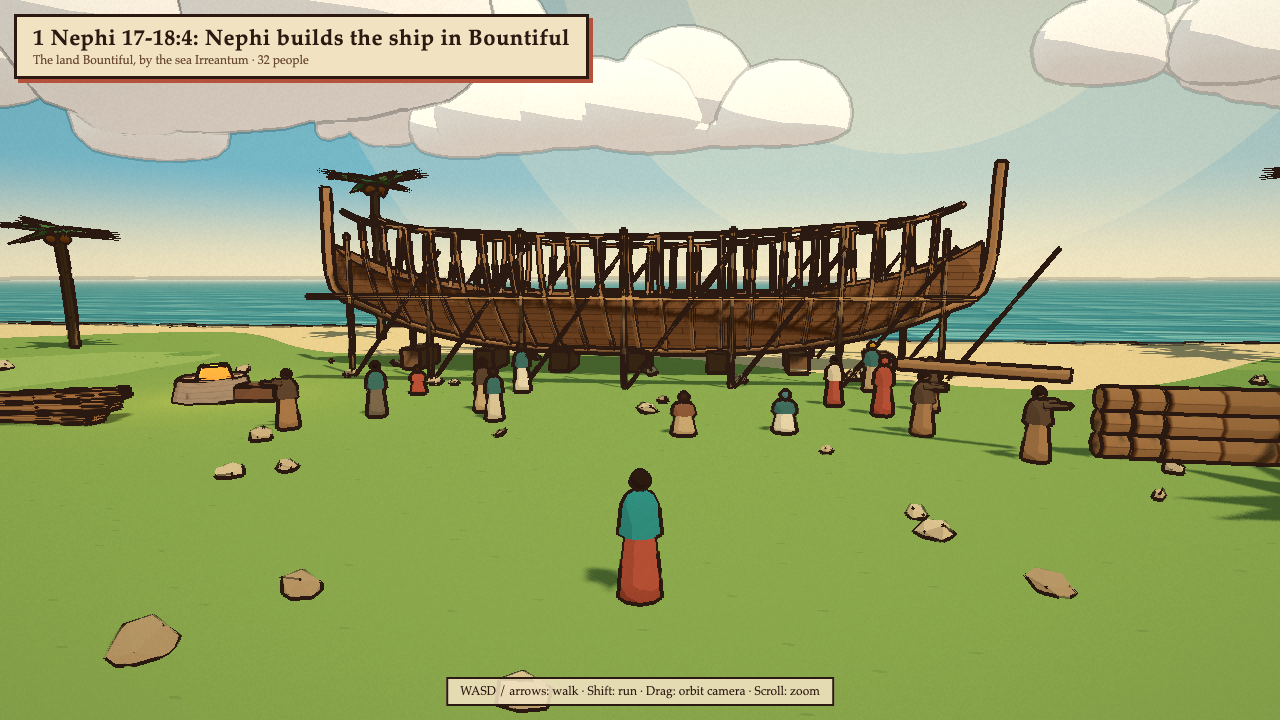
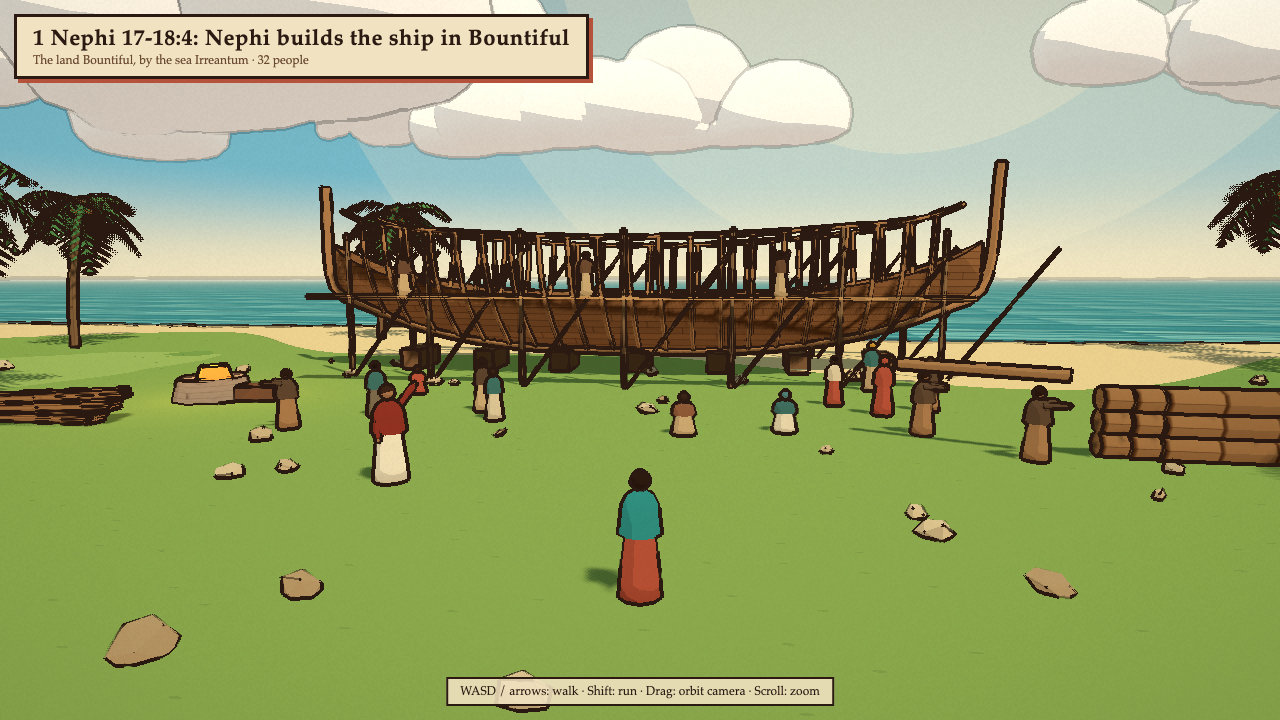
feat: polish toon scenes bom-07 to bom-12

diff --git a/styles/toon/scenes/bom-08.js b/styles/toon/scenes/bom-08.js
@@ -54,24 +54,25 @@ export default {
 
     // Cords around Nephi and the mast (1 Nephi 18:11-15).
     const cords = [];
-    for (const h of [0.55, 0.85, 1.15, 1.3]) {
-      const ring = new THREE.TorusGeometry(0.42, 0.04, 5, 18);
+    for (const h of [0.5, 0.8, 1.1, 1.38]) {
+      const ring = new THREE.TorusGeometry(0.5, 0.05, 5, 20);
       ring.rotateX(Math.PI / 2);
-      ring.translate((MAST[0] + NEPHI[0]) / 2 + 0.05, deckY + h, 0);
+      ring.scale(1.3, 1, 0.62);
+      ring.translate((MAST[0] + NEPHI[0]) / 2 + 0.06, deckY + h, 0);
       cords.push(ring);
     }
-    addMesh(scene, cords, kit.toon('#d8c8a0'), { cast: false });
+    addMesh(scene, cords, kit.toon('#f0e2b8', { emissive: '#3a3020' }), { cast: false });
     cargo(ctx, [[-4, 2.3], [-4.6, 2.0], [-3.8, -2.4], [8, 2.2], [8.6, -2.1], [7.6, 1.9]], { y: deckY });
 
     const fam = { robe: '#7a6a52', mantle: '#5e4632', skin: '#a87650', hair: '#2b1a12', sash: '#3e6e66' };
-    person(ctx, { robe: '#e6d8b8', mantle: '#3e6e66', skin: '#a87650', hair: '#3a2418', sash: '#c8912e', arms: [0.12, -0.3] }, { pos: NEPHI, face: [-10, 0], y: deckY, scale: 1.05, kneel: true });
+    person(ctx, { robe: '#e6d8b8', mantle: '#3e6e66', skin: '#a87650', hair: '#3a2418', sash: '#c8912e', arms: [0.06, 0] }, { pos: NEPHI, face: [12, -2], y: deckY, scale: 1.1 });
     person(ctx, { ...fam, robe: '#8c5a3c', mantle: '#3a2418', arms: [0.25, 0.9] }, { pos: [-0.5, 1.4], face: NEPHI, y: deckY });
     person(ctx, { ...fam, robe: '#6b5a4a', mantle: '#8c5a3c', arms: [0.6, 0.4] }, { pos: [0.2, -1.8], face: NEPHI, y: deckY });
     person(ctx, { robe: '#e6d8b8', mantle: '#d9c7a3', skin: '#c08f66', hair: '#e8e4dc' }, { pos: [-6.2, 2.3], face: [-6.2, 0], y: deckY, kneel: true });
     person(ctx, { robe: '#b5523b', mantle: '#d9c7a3', skin: '#c08f66', hair: '#d8d2c8' }, { pos: [-6.2, -2.3], face: [-6.2, 0], y: deckY, kneel: true });
-    person(ctx, { robe: '#4f7f80', mantle: '#c8912e', skin: '#b5825a', hair: '#2b1a12' }, { pos: [5.2, 1.6], face: NEPHI, y: deckY, kneel: true });
-    person(ctx, { robe: '#c98b3c', mantle: '#4f7f80', skin: '#b5825a', hair: '#3a2418' }, { pos: [5.0, 0.6], face: NEPHI, y: deckY, scale: 0.6 });
-    person(ctx, { robe: '#d9c7a3', mantle: '#b5523b', skin: '#b5825a', hair: '#3a2418' }, { pos: [5.6, -0.5], face: NEPHI, y: deckY, scale: 0.65 });
+    person(ctx, { robe: '#4f7f80', mantle: '#c8912e', skin: '#b5825a', hair: '#2b1a12' }, { pos: [4.3, 1.9], face: NEPHI, y: deckY, kneel: true });
+    person(ctx, { robe: '#c98b3c', mantle: '#4f7f80', skin: '#b5825a', hair: '#3a2418' }, { pos: [3.7, 2.6], face: NEPHI, y: deckY, scale: 0.6 });
+    person(ctx, { robe: '#d9c7a3', mantle: '#b5523b', skin: '#b5825a', hair: '#3a2418' }, { pos: [5.0, 2.5], face: NEPHI, y: deckY, scale: 0.65 });
 
     rain(ctx, { count: 1500, wind: [0.5, 0.15], speed: 30, opacity: 0.4 });
 
@@ -119,7 +120,7 @@ export default {
 
   light: {
     glows: [{ at: [-6.75, 0], lift: 1.8, size: 2.2, color: '#ffc870', opacity: 0.7 }],
-    pointLights: [{ at: [-6.5, 0], lift: 3.4, color: '#ffc070', intensity: 5, distance: 10 }],
+    pointLights: [{ at: [-6.5, 0], lift: 3.4, color: '#ffc070', intensity: 5, distance: 10 }, { at: [4.6, -0.6], lift: 2.6, color: '#ffd8a0', intensity: 3, distance: 6 }],
   },
 
   crowd: {
@@ -140,8 +141,9 @@ export default {
   },
 
   player: {
-    start: [9, 1.3],
-    lookAt: [-6, -1.8],
+    fov: 48,
+    start: [7.4, -2.3],
+    lookAt: [2.2, -0.9],
     colors: { robe: '#4f7f80', mantle: '#5e4632', skin: '#a8724a', hair: '#2b1a12', sash: '#c8912e' },
   },
 };

diff --git a/styles/toon/scenes/lib/bom-07-kit.js b/styles/toon/scenes/lib/bom-07-kit.js
@@ -606,6 +606,39 @@ export function animal(ctx, kind, { color, pos, rot = 0, scale = 1, grazing = fa
 
 // ---------- trees ----------
 
+// One arched frond: a midrib that rises then droops, lined with leaflets on both sides. Points along +x.
+function palmFrond(rng, len, rise) {
+  const N = 12, pos = [];
+  const rib = [];
+  for (let i = 0; i <= N; i++) {
+    const s = i / N;
+    rib.push(new THREE.Vector3(len * s * (1 - 0.18 * s), len * (rise * s - 0.7 * s * s), 0));
+  }
+  const ribW = 0.07;
+  for (let i = 0; i < N; i++) {
+    const a = rib[i], b = rib[i + 1];
+    const w = ribW * (1 - i / N);
+    pos.push(a.x, a.y, -w, b.x, b.y, -w * 0.8, b.x, b.y, w * 0.8, a.x, a.y, -w, b.x, b.y, w * 0.8, a.x, a.y, w);
+  }
+  for (let i = 1; i < N; i++) {
+    const s = i / N;
+    const a = rib[i], b = rib[i + 1];
+    const dir = b.clone().sub(a).normalize();
+    const reach = len * 0.36 * Math.sin(Math.PI * (0.15 + 0.85 * s)) * (0.85 + rng() * 0.3);
+    for (const side of [-1, 1]) {
+      const tip = a.clone().addScaledVector(dir, reach * 0.55);
+      tip.z += side * reach;
+      tip.y -= reach * 0.45;
+      const mid = a.clone().lerp(b, 0.7);
+      pos.push(a.x, a.y, a.z, mid.x, mid.y, mid.z, tip.x, tip.y, tip.z);
+    }
+  }
+  const g = new THREE.BufferGeometry();
+  g.setAttribute('position', new THREE.Float32BufferAttribute(pos, 3));
+  g.computeVertexNormals();
+  return g;
+}
+
 // Date palms and fruit trees merged into a few meshes. spots: [[x, z], ...]
 export function palms(ctx, spots, { seed = 4, height = [7, 11], trunk = '#8a6a48', frond = ['#4f8a4a', '#5f9a52', '#3f7a46'], dates = '#c8742e' } = {}) {
   const rng = makeRng(seed);
@@ -621,18 +654,17 @@ export function palms(ctx, spots, { seed = 4, height = [7, 11], trunk = '#8a6a48
     }
     trunks.push(curveTube(pts, 0.24, 10, 6));
     const top = pts[5];
-    const n = 9 + Math.floor(rng() * 3);
+    const n = 10 + Math.floor(rng() * 4);
     for (let k = 0; k < n; k++) {
-      const a = (k / n) * Math.PI * 2 + rng() * 0.4;
-      const len = 3 + rng() * 1.2;
-      const leaf = new THREE.ConeGeometry(0.9, len, 4, 1);
-      leaf.scale(1, 1, 0.22);
-      leaf.translate(0, len / 2, 0);
-      leaf.applyMatrix4(new THREE.Matrix4().makeRotationFromEuler(new THREE.Euler(1.35 + rng() * 0.5, a, 0, 'YXZ')));
+      const a = (k / n) * Math.PI * 2 + rng() * 0.35;
+      const rise = k % 3 === 0 ? 0.55 : k % 3 === 1 ? 0.15 : -0.25;
+      const leaf = palmFrond(rng, 3.4 + rng() * 1.4, rise + (rng() - 0.5) * 0.2);
+      leaf.applyMatrix4(new THREE.Matrix4().makeRotationY(a));
       leaf.translate(top[0], top[1], top[2]);
       fronds[Math.floor(rng() * frond.length)].push(leaf);
     }
-    for (let k = 0; k < 4; k++) fruit.push(ball(0.28, top[0] + Math.sin(k * 1.6) * 0.45, top[1] - 0.5, top[2] + Math.cos(k * 1.6) * 0.45, {}, 7));
+    trunks.push(cyl(0.42, 0.26, 0.9, top[0], top[1] - 0.2, top[2], {}, 7));
+    for (let k = 0; k < 4; k++) fruit.push(ball(0.3, top[0] + Math.sin(k * 1.6) * 0.5, top[1] - 0.75, top[2] + Math.cos(k * 1.6) * 0.5, {}, 7));
     ctx.addCollider({ x, z, hx: 0.35, hz: 0.35, rot: 0, top: y + h });
   }
   addMesh(ctx.scene, trunks, ctx.kit.toon(trunk, { map: plankTexture() }));

diff --git a/styles/toon/scenes/lib/bom-07-temple.js b/styles/toon/scenes/lib/bom-07-temple.js
@@ -90,11 +90,26 @@ export function buildTemple(ctx, { pos, rot = Math.PI / 2, building = false, col
     stone.push(boxGeo(2, 5, 2, [s * 7, 2.5, front]));
     solid(s * 7, front, 1, 1, 5);
   }
-  const altar = [boxGeo(4.4, 2.2, 4.4, [-11, 1.1, 36]), boxGeo(4.8, 0.3, 4.8, [-11, 2.35, 36]), boxGeo(2, 1.1, 3.5, [-11, 0.55, 39.6], { rotX: 0.3 })];
-  for (const [x, z] of [[-13.1, 33.9], [-8.9, 33.9], [-13.1, 38.1], [-8.9, 38.1]]) altar.push(new THREE.ConeGeometry(0.3, 0.7, 4).translate(x, 2.85, z));
+  // Bronze altar: a stepped base, a ledge at half height, horns at the corners, and a ramp up its south side.
+  const altar = [boxGeo(5.4, 0.35, 5.4, [-11, 0.17, 36]), boxGeo(4.4, 2.2, 4.4, [-11, 1.1, 36]), boxGeo(4.8, 0.3, 4.8, [-11, 2.35, 36])];
+  const altarTrim = [boxGeo(4.7, 0.22, 4.7, [-11, 1.15, 36])];
+  for (const [x, z] of [[-13.1, 33.9], [-8.9, 33.9], [-13.1, 38.1], [-8.9, 38.1]]) altar.push(new THREE.ConeGeometry(0.32, 0.8, 4).rotateY(Math.PI / 4).translate(x, 2.9, z));
+  const rampLen = 5, rampTop = 2.5, rampX0 = -13.2 - rampLen;
+  const wedge = (w, h, low) => {
+    const box = new THREE.BoxGeometry(rampLen, h, w).translate(rampX0 + rampLen / 2, h / 2, 36);
+    const p = box.attributes.position;
+    for (let i = 0; i < p.count; i++) if (p.getY(i) > h / 2 && p.getX(i) < rampX0 + rampLen / 2) p.setY(i, low);
+    box.computeVertexNormals();
+    return box;
+  };
+  const rampStone = [wedge(2.2, rampTop, 0.12)];
+  for (const s of [-1, 1]) altarTrim.push(wedge(0.3, rampTop + 0.25, 0.3).translate(0, 0, s * 1.25));
   addMesh(g, altar, k.toon('#8a5a2a'));
+  addMesh(g, altarTrim, k.toon(c.bronze));
+  addMesh(g, rampStone, k.stoneMat(c.base));
   addMesh(g, [boxGeo(3, 0.2, 3, [-11, 2.55, 36])], k.toon('#3a2418'), { cast: false });
   solid(-11, 36, 2.7, 2.7, 2.6);
+  solid(rampX0 + rampLen / 2, 36, rampLen / 2, 1.4, rampTop * 0.5);
   const seaX = 14, seaZ = 30;
   const basin = new THREE.LatheGeometry([[0.001, 0], [1.4, 0.1], [2.1, 0.7], [2.45, 1.5], [2.6, 1.65], [2.35, 1.65], [0.001, 1.5]].map(([r, h]) => new THREE.Vector2(r, h)), 24);
   basin.translate(seaX, 1.1, seaZ);

diff --git a/styles/toon/scenes/bom-07.js b/styles/toon/scenes/bom-07.js
@@ -9,7 +9,7 @@ import {
 const SEG = 400;
 const shore = (x) => -30 + 3 * Math.sin(x / 23) + 1.5 * Math.sin(x / 9);
 const SHIP = [0, -8];
-const NEPHI = [-3.5, -1.5];
+const NEPHI = [-2.2, 10.5];
 
 const people = {
   robes: ['#d9c7a3', '#c8a97a', '#a87b4f', '#8c5a3c', '#b5523b', '#c98b3c', '#7a6a52', '#e6d8b8', '#9c6b4e'],
@@ -134,7 +134,15 @@ export default {
     addMesh(scene, skeps, kit.toon('#d8a94a', { map: plankTexture() }));
 
     // Nephi directs the work, his brothers carry timber.
-    person(ctx, { robe: '#e6d8b8', mantle: '#3e6e66', skin: '#a87650', hair: '#3a2418', sash: '#c8912e', arms: [0.4, 1.3] }, { pos: NEPHI, face: [0, -8], scale: 1.08 });
+    const nephi = person(ctx, { robe: '#efe4c8', mantle: '#8f3326', skin: '#a87650', hair: '#3a2418', sash: '#d9a23a', arms: [0.12, 0.2] }, { pos: NEPHI, face: [9, 18], scale: 1.2 });
+    nephi.children.at(-1).rotation.set(-0.5, 0, 2.3);
+
+    // Brothers at work on the scaffold planks along the near side of the hull.
+    const plankY = g.position.y + 2.66, plankZ = ship.shape.halfW(0.5) + 1.2;
+    for (const [lx, arms] of [[-9, [0.2, 2.2]], [-1.5, [0.3, 1.0]], [6, [0.2, 2.4]]]) {
+      const wx = SHIP[0] + lx * Math.cos(0.05) + plankZ * Math.sin(0.05), wz = SHIP[1] - lx * Math.sin(0.05) + plankZ * Math.cos(0.05);
+      person(ctx, { robe: '#c8a97a', mantle: '#6b4a33', skin: '#9c6a45', hair: '#2b1a12', sash: '#b5523b', arms }, { pos: [wx, wz], face: [wx, wz - 5], y: plankY });
+    }
     for (const [x, z, f] of [[10, 4, [18, 6]], [12, 6.5, [18, 6]], [-8, 6, [-17, 7]]]) {
       person(ctx, { robe: '#a87b4f', mantle: '#5e4632', skin: '#9c6a45', hair: '#2b1a12', sash: '#7a6a52', arms: [0.15, 1.6] }, { pos: [x, z], face: f });
     }

diff --git a/styles/toon/scenes/bom-09.js b/styles/toon/scenes/bom-09.js
@@ -127,7 +127,10 @@ export default {
     palms(ctx, [[-40, -22], [-44, -14], [40, -24], [46, -20], [52, -12]], { seed: 2 });
 
     // Lehi gives thanks; Nephi with the seed; others kneel at the rows.
-    person(ctx, { robe: '#e6d8b8', mantle: '#d9c7a3', skin: '#c08f66', hair: '#e8e4dc', sash: '#8c5a3c', arms: [0.5, 1.9] }, { pos: [-2, -8], face: [-2, 10] });
+    const lehiY = ctx.terrainHeight(-2, -8);
+    addMesh(scene, [new THREE.CylinderGeometry(1.1, 1.5, 1.2, 8).translate(-2, lehiY + 0.4, -8)], kit.stoneMat('#9a8a78'));
+    ctx.addCollider({ x: -2, z: -8, hx: 1.2, hz: 1.2, rot: 0, top: lehiY + 1.0 });
+    person(ctx, { robe: '#f2ead6', mantle: '#d9c7a3', skin: '#c08f66', hair: '#e8e4dc', sash: '#8c5a3c', arms: [0.5, 2.3] }, { pos: [-2, -8], face: [4, 6], y: lehiY + 1.0, scale: 1.15 });
     person(ctx, { robe: '#e6d8b8', mantle: '#3e6e66', skin: '#a87650', hair: '#3a2418', sash: '#c8912e', arms: [0.2, 0.9] }, { pos: [13, 9], face: [20, 9], scale: 1.05 });
     for (const [x, z] of [[18, 7.3], [23, 9.9], [27, 12.5]]) person(ctx, { robe: '#a87b4f', mantle: '#5e4632', skin: '#9c6a45', hair: '#2b1a12' }, { pos: [x, z], face: [x + 4, z], kneel: true });
   },
@@ -150,8 +153,8 @@ export default {
   },
 
   player: {
-    start: [6, 12],
-    lookAt: [-6, -30],
+    start: [6, -2],
+    lookAt: [-1, -13],
     colors: { robe: '#b5523b', mantle: '#2f8f8a', skin: '#a8724a', hair: '#2b1a12', sash: '#c8912e' },
   },
 };

diff --git a/styles/toon/scenes/bom-11.js b/styles/toon/scenes/bom-11.js
@@ -3,7 +3,7 @@
 import { leafyTrees, makeRng, person, scatter } from './lib/bom-07-kit.js';
 import { buildTemple, houses } from './lib/bom-07-temple.js';
 
-const NEPHI = [31, 5];
+const NEPHI = [40.5, 8];
 
 export default {
   title: '2 Nephi 5:5-16: Nephi builds a temple',
@@ -47,7 +47,8 @@ export default {
     houses(ctx, scatter(ctx, rng, 70, { center: [10, 0], ring: [62, 150], margin: 5, reject: (x, z) => court(x, z) || road(x, z) }));
     leafyTrees(ctx, scatter(ctx, rng, 70, { center: [0, 0], ring: [90, 220], margin: 4, reject: road }), { height: [6, 10], leaves: ['#5a8a44', '#4a7a3e', '#6a9a4a'] });
 
-    person(ctx, { robe: '#e6d8b8', mantle: '#3e6e66', skin: '#a87650', hair: '#3a2418', sash: '#c8912e', arms: [0.55, 1.4] }, { pos: NEPHI, face: [0, 0], scale: 1.08 });
+    const nephi = person(ctx, { robe: '#efe4c8', mantle: '#8f3326', skin: '#a87650', hair: '#3a2418', sash: '#d9a23a', arms: [0.12, 0.2] }, { pos: NEPHI, face: [47, 4], scale: 1.18 });
+    nephi.children.at(-2).rotation.set(-0.5, 0, -2.3);
     for (const [x, z, f] of [[24, 10, [28, 12]], [26, 14, [28, 12]], [14, -19, [14, -23]], [16, -19, [14, -23]]]) {
       person(ctx, { robe: '#a87b4f', mantle: '#5e4632', skin: '#9c6a45', hair: '#2b1a12', sash: '#7a6a52', arms: [0.2, 1.7] }, { pos: [x, z], face: f });
     }

diff --git a/styles/toon/scenes/bom-10.js b/styles/toon/scenes/bom-10.js
@@ -38,7 +38,7 @@ export default {
     { type: 'stones', count: 200, center: [0, 0], ring: [10, 60], size: [0.12, 0.4], colors: ['#b8a07a', '#a08868', '#c8b48a'] },
   ],
 
-  smolder: [{ pos: [-7, 5], radius: 0.9, embers: 10, flames: 3, smoke: 0, logs: 3 }],
+  smolder: [{ pos: [-12, 9], radius: 0.9, embers: 10, flames: 3, smoke: 0, logs: 3 }],
 
   clouds: {
     layers: [
@@ -77,7 +77,7 @@ export default {
     const grain = [];
     for (let i = 0; i < 70; i++) {
       const x = -70 + (i % 14) * 4 + rng(), z = -60 - Math.floor(i / 14) * 4 + rng();
-      grain.push(boxGeo(3.6, 0.9, 3.4, [x, ctx.terrainHeight(x, z) + 0.45, z]));
+      grain.push(boxGeo(3.8, 0.5, 3.6, [x, ctx.terrainHeight(x, z) + 0.15, z]));
     }
     addMesh(scene, grain, kit.toon('#d8b85a'));
     leafyTrees(ctx, scatter(ctx, rng, 90, { center: [0, 0], ring: [48, 180], margin: 4, reject: (x, z) => z > 15 && Math.abs(x) < 30 }), { height: [6, 11], leaves: ['#5a8a44', '#6a9a4a', '#4a7a3e'] });
@@ -110,7 +110,8 @@ export default {
   },
 
   player: {
-    start: [2.5, 10],
+    fov: 48,
+    start: [1.4, 2.6],
     lookAt: LEHI,
     colors: { robe: '#b5523b', mantle: '#2f8f8a', skin: '#a8724a', hair: '#2b1a12', sash: '#c8912e' },
   },

diff --git a/styles/toon/scenes/bom-12.js b/styles/toon/scenes/bom-12.js
@@ -46,7 +46,7 @@ export default {
     leafyTrees(ctx, scatter(ctx, rng, 70, { center: [0, 0], ring: [90, 220], margin: 4, reject: road }), { height: [6, 10], leaves: ['#5a8a44', '#4a7a3e', '#6a9a4a'] });
 
     // Jacob in a white robe with a priestly mantle, his brother Joseph beside him.
-    person(ctx, { robe: '#f3eddf', mantle: '#4f7f80', skin: '#a87650', hair: '#3a2418', sash: '#c8912e', arms: [0.7, 1.0] }, { pos: JACOB, face: [60, 0], y: temple.podium, scale: 1.1 });
+    person(ctx, { robe: '#f3eddf', mantle: '#4f7f80', skin: '#a87650', hair: '#3a2418', sash: '#c8912e', arms: [0.6, 1.6] }, { pos: JACOB, face: [60, 0], y: temple.podium, scale: 1.2 });
     person(ctx, { robe: '#efe6d2', mantle: '#8c5a3c', skin: '#a87650', hair: '#2b1a12', sash: '#c8912e' }, { pos: [20.6, -3.2], face: [60, 0], y: temple.podium });
   },
 
@@ -72,7 +72,8 @@ export default {
   },
 
   player: {
-    start: [41, 1.3],
+    fov: 48,
+    start: [37, 1.2],
     lookAt: JACOB,
     colors: { robe: '#b5523b', mantle: '#2f8f8a', skin: '#a8724a', hair: '#2b1a12', sash: '#c8912e' },
   },
